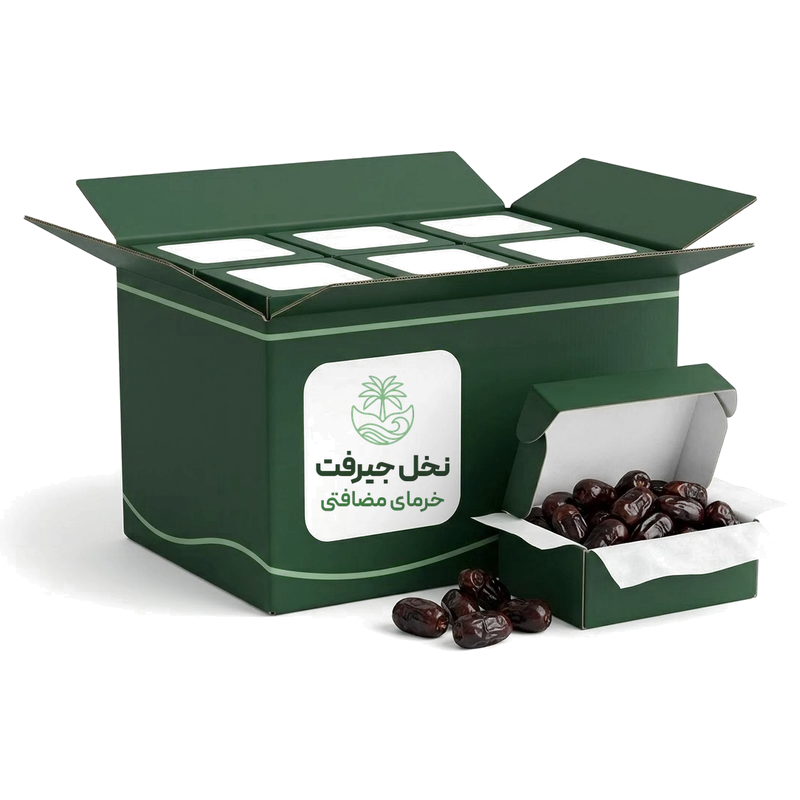
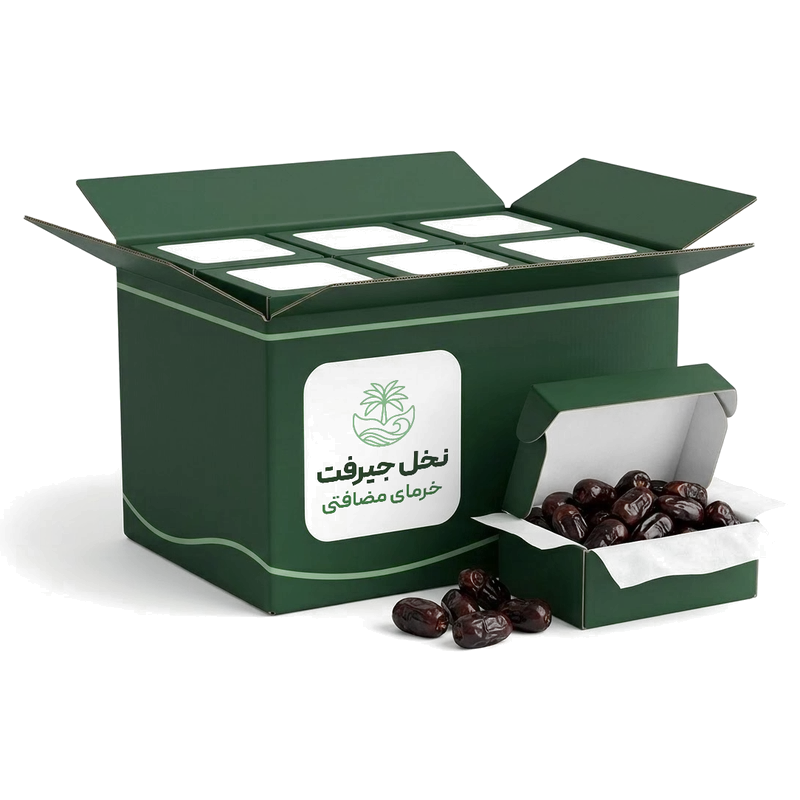
Carton/box labels warped to the panel's perspective (no longer crooked)
Claude-Session: https://claude.ai/code/session_01C6711DbN9xjxTLnYgikHbm

Changed region(s): [[0.375, 0.4688, 0.5625, 0.6562]]

diff --git a/index.html b/index.html
@@ -25,8 +25,8 @@
 <link rel="preload" href="fonts/YekanBakhFaNum-Regular.woff2" as="font" type="font/woff2" crossorigin>
 <link rel="preload" href="fonts/PeydaWeb-Black.woff2" as="font" type="font/woff2" crossorigin>
 
-<link rel="stylesheet" href="css/tailwind.css?v=20261027am">
-<link rel="stylesheet" href="css/style.css?v=20261027am">
+<link rel="stylesheet" href="css/tailwind.css?v=20261027an">
+<link rel="stylesheet" href="css/style.css?v=20261027an">
 
 
 </head>
@@ -239,7 +239,7 @@
         <!-- IMAGE SLOT · خرمای مضافتی -->
         <div class="relative grid aspect-square place-items-center overflow-hidden rounded-2xl">
           <div class="p-glow pointer-events-none absolute inset-0 rounded-2xl" aria-hidden="true"></div>
-          <div class="p-img relative grid h-full w-full place-items-center" role="img" aria-label="خرمای مضافتی"><img src="img/p/maz-box.webp?v=4" srcset="img/p/maz-box-400.webp?v=4 400w, img/p/maz-box.webp?v=4 800w" sizes="(min-width:1024px) 290px, 46vw" width="800" height="800" alt="خرمای مضافتی" class="ph max-h-full w-auto object-contain p-3" loading="lazy" decoding="async"></div>
+          <div class="p-img relative grid h-full w-full place-items-center" role="img" aria-label="خرمای مضافتی"><img src="img/p/maz-box.webp?v=5" srcset="img/p/maz-box-400.webp?v=5 400w, img/p/maz-box.webp?v=5 800w" sizes="(min-width:1024px) 290px, 46vw" width="800" height="800" alt="خرمای مضافتی" class="ph max-h-full w-auto object-contain p-3" loading="lazy" decoding="async"></div>
         </div>
         
       </div>
@@ -265,7 +265,7 @@
         <!-- IMAGE SLOT · خرمای پیارم -->
         <div class="relative grid aspect-square place-items-center overflow-hidden rounded-2xl">
           <div class="p-glow pointer-events-none absolute inset-0 rounded-2xl" aria-hidden="true"></div>
-          <div class="p-img relative grid h-full w-full place-items-center" role="img" aria-label="خرمای پیارم"><img src="img/p/pia-box.webp?v=4" srcset="img/p/pia-box-400.webp?v=4 400w, img/p/pia-box.webp?v=4 800w" sizes="(min-width:1024px) 290px, 46vw" width="800" height="800" alt="خرمای پیارم" class="ph max-h-full w-auto object-contain p-3" loading="lazy" decoding="async"></div>
+          <div class="p-img relative grid h-full w-full place-items-center" role="img" aria-label="خرمای پیارم"><img src="img/p/pia-box.webp?v=5" srcset="img/p/pia-box-400.webp?v=5 400w, img/p/pia-box.webp?v=5 800w" sizes="(min-width:1024px) 290px, 46vw" width="800" height="800" alt="خرمای پیارم" class="ph max-h-full w-auto object-contain p-3" loading="lazy" decoding="async"></div>
         </div>
         
       </div>
@@ -291,7 +291,7 @@
         <!-- IMAGE SLOT · خرمای کلوته -->
         <div class="relative grid aspect-square place-items-center overflow-hidden rounded-2xl">
           <div class="p-glow pointer-events-none absolute inset-0 rounded-2xl" aria-hidden="true"></div>
-          <div class="p-img relative grid h-full w-full place-items-center" role="img" aria-label="خرمای کلوته"><img src="img/p/kal-box.webp?v=4" srcset="img/p/kal-box-400.webp?v=4 400w, img/p/kal-box.webp?v=4 800w" sizes="(min-width:1024px) 290px, 46vw" width="800" height="800" alt="خرمای کلوته" class="ph max-h-full w-auto object-contain p-3" loading="lazy" decoding="async"></div>
+          <div class="p-img relative grid h-full w-full place-items-center" role="img" aria-label="خرمای کلوته"><img src="img/p/kal-box.webp?v=5" srcset="img/p/kal-box-400.webp?v=5 400w, img/p/kal-box.webp?v=5 800w" sizes="(min-width:1024px) 290px, 46vw" width="800" height="800" alt="خرمای کلوته" class="ph max-h-full w-auto object-contain p-3" loading="lazy" decoding="async"></div>
         </div>
         
       </div>
@@ -317,7 +317,7 @@
         <!-- IMAGE SLOT · پستهی اکبری -->
         <div class="relative grid aspect-square place-items-center overflow-hidden rounded-2xl">
           <div class="p-glow pointer-events-none absolute inset-0 rounded-2xl" aria-hidden="true"></div>
-          <div class="p-img relative grid h-full w-full place-items-center" role="img" aria-label="پستهی اکبری"><img src="img/p/pis.webp?v=4" srcset="img/p/pis-400.webp?v=4 400w, img/p/pis.webp?v=4 800w" sizes="(min-width:1024px) 290px, 46vw" width="800" height="800" alt="پستهی اکبری" class="ph max-h-full w-auto object-contain p-3" loading="lazy" decoding="async"></div>
+          <div class="p-img relative grid h-full w-full place-items-center" role="img" aria-label="پستهی اکبری"><img src="img/p/pis.webp?v=5" srcset="img/p/pis-400.webp?v=5 400w, img/p/pis.webp?v=5 800w" sizes="(min-width:1024px) 290px, 46vw" width="800" height="800" alt="پستهی اکبری" class="ph max-h-full w-auto object-contain p-3" loading="lazy" decoding="async"></div>
         </div>
         
       </div>
@@ -343,7 +343,7 @@
         <!-- IMAGE SLOT · انجیر خشک استهبان -->
         <div class="relative grid aspect-square place-items-center overflow-hidden rounded-2xl">
           <div class="p-glow pointer-events-none absolute inset-0 rounded-2xl" aria-hidden="true"></div>
-          <div class="p-img relative grid h-full w-full place-items-center" role="img" aria-label="انجیر خشک استهبان"><img src="img/p/fig.webp?v=4" srcset="img/p/fig-400.webp?v=4 400w, img/p/fig.webp?v=4 800w" sizes="(min-width:1024px) 290px, 46vw" width="800" height="800" alt="انجیر خشک استهبان" class="ph max-h-full w-auto object-contain p-3" loading="lazy" decoding="async"></div>
+          <div class="p-img relative grid h-full w-full place-items-center" role="img" aria-label="انجیر خشک استهبان"><img src="img/p/fig.webp?v=5" srcset="img/p/fig-400.webp?v=5 400w, img/p/fig.webp?v=5 800w" sizes="(min-width:1024px) 290px, 46vw" width="800" height="800" alt="انجیر خشک استهبان" class="ph max-h-full w-auto object-contain p-3" loading="lazy" decoding="async"></div>
         </div>
         
       </div>
@@ -369,7 +369,7 @@
         <!-- IMAGE SLOT · بادام درختی -->
         <div class="relative grid aspect-square place-items-center overflow-hidden rounded-2xl">
           <div class="p-glow pointer-events-none absolute inset-0 rounded-2xl" aria-hidden="true"></div>
-          <div class="p-img relative grid h-full w-full place-items-center" role="img" aria-label="بادام درختی"><img src="img/p/alm.webp?v=4" srcset="img/p/alm-400.webp?v=4 400w, img/p/alm.webp?v=4 800w" sizes="(min-width:1024px) 290px, 46vw" width="800" height="800" alt="بادام درختی" class="ph max-h-full w-auto object-contain p-3" loading="lazy" decoding="async"></div>
+          <div class="p-img relative grid h-full w-full place-items-center" role="img" aria-label="بادام درختی"><img src="img/p/alm.webp?v=5" srcset="img/p/alm-400.webp?v=5 400w, img/p/alm.webp?v=5 800w" sizes="(min-width:1024px) 290px, 46vw" width="800" height="800" alt="بادام درختی" class="ph max-h-full w-auto object-contain p-3" loading="lazy" decoding="async"></div>
         </div>
         
       </div>
@@ -395,7 +395,7 @@
         <!-- IMAGE SLOT · مغز گردو -->
         <div class="relative grid aspect-square place-items-center overflow-hidden rounded-2xl">
           <div class="p-glow pointer-events-none absolute inset-0 rounded-2xl" aria-hidden="true"></div>
-          <div class="p-img relative grid h-full w-full place-items-center" role="img" aria-label="مغز گردو"><img src="img/p/wal.webp?v=4" srcset="img/p/wal-400.webp?v=4 400w, img/p/wal.webp?v=4 800w" sizes="(min-width:1024px) 290px, 46vw" width="800" height="800" alt="مغز گردو" class="ph max-h-full w-auto object-contain p-3" loading="lazy" decoding="async"></div>
+          <div class="p-img relative grid h-full w-full place-items-center" role="img" aria-label="مغز گردو"><img src="img/p/wal.webp?v=5" srcset="img/p/wal-400.webp?v=5 400w, img/p/wal.webp?v=5 800w" sizes="(min-width:1024px) 290px, 46vw" width="800" height="800" alt="مغز گردو" class="ph max-h-full w-auto object-contain p-3" loading="lazy" decoding="async"></div>
         </div>
         
       </div>
@@ -421,7 +421,7 @@
         <!-- IMAGE SLOT · برگهی زردآلو -->
         <div class="relative grid aspect-square place-items-center overflow-hidden rounded-2xl">
           <div class="p-glow pointer-events-none absolute inset-0 rounded-2xl" aria-hidden="true"></div>
-          <div class="p-img relative grid h-full w-full place-items-center" role="img" aria-label="برگهی زردآلو"><img src="img/p/apr.webp?v=4" srcset="img/p/apr-400.webp?v=4 400w, img/p/apr.webp?v=4 800w" sizes="(min-width:1024px) 290px, 46vw" width="800" height="800" alt="برگهی زردآلو" class="ph max-h-full w-auto object-contain p-3" loading="lazy" decoding="async"></div>
+          <div class="p-img relative grid h-full w-full place-items-center" role="img" aria-label="برگهی زردآلو"><img src="img/p/apr.webp?v=5" srcset="img/p/apr-400.webp?v=5 400w, img/p/apr.webp?v=5 800w" sizes="(min-width:1024px) 290px, 46vw" width="800" height="800" alt="برگهی زردآلو" class="ph max-h-full w-auto object-contain p-3" loading="lazy" decoding="async"></div>
         </div>
         
       </div>
@@ -1192,6 +1192,6 @@
 <!-- Toast (top, so it never collides with the cart capsule) -->
 <div id="toast" role="status" aria-live="polite" class="pointer-events-none fixed left-1/2 top-24 z-[90] w-max max-w-[calc(100vw-2rem)] -translate-x-1/2 -translate-y-2 rounded-full bg-cyprus-deep px-5 py-3 text-center text-sm text-white opacity-0 shadow-lg transition duration-200"></div>
 
-<script src="js/app.js?v=20261027am"></script>
+<script src="js/app.js?v=20261027an"></script>
 </body>
 </html>

diff --git a/js/app.js b/js/app.js
@@ -24,7 +24,7 @@
     { id:'apr',   cat:'dried', img:'img/p/apr.webp',    name:'برگهی زردآلو',           unit:'بستهبندی ۵۰۰ گرمی',   price:380000,  badge:'۱۰۰٪ ارگانیک', tag:'زردآلو', featured:true },
     { id:'rai',   cat:'dried', img:'img/p/rai.webp',    name:'کشمش سبز',                unit:'بستهبندی ۵۰۰ گرمی',   price:210000,  badge:'صادراتی',     tag:'کشمش' }
   ];
-  const IMG_V = '4';                // bump when product photos change, so phones don't keep old cached copies
+  const IMG_V = '5';                // bump when product photos change, so phones don't keep old cached copies
   products.forEach(p => { if (p.img) p.img += '?v=' + IMG_V; });
   const byId = Object.fromEntries(products.map(p => [p.id, p]));
   /* weight in kg (for the customer's "purchased weight") + sample stock; the admin panel overrides price/stock */
